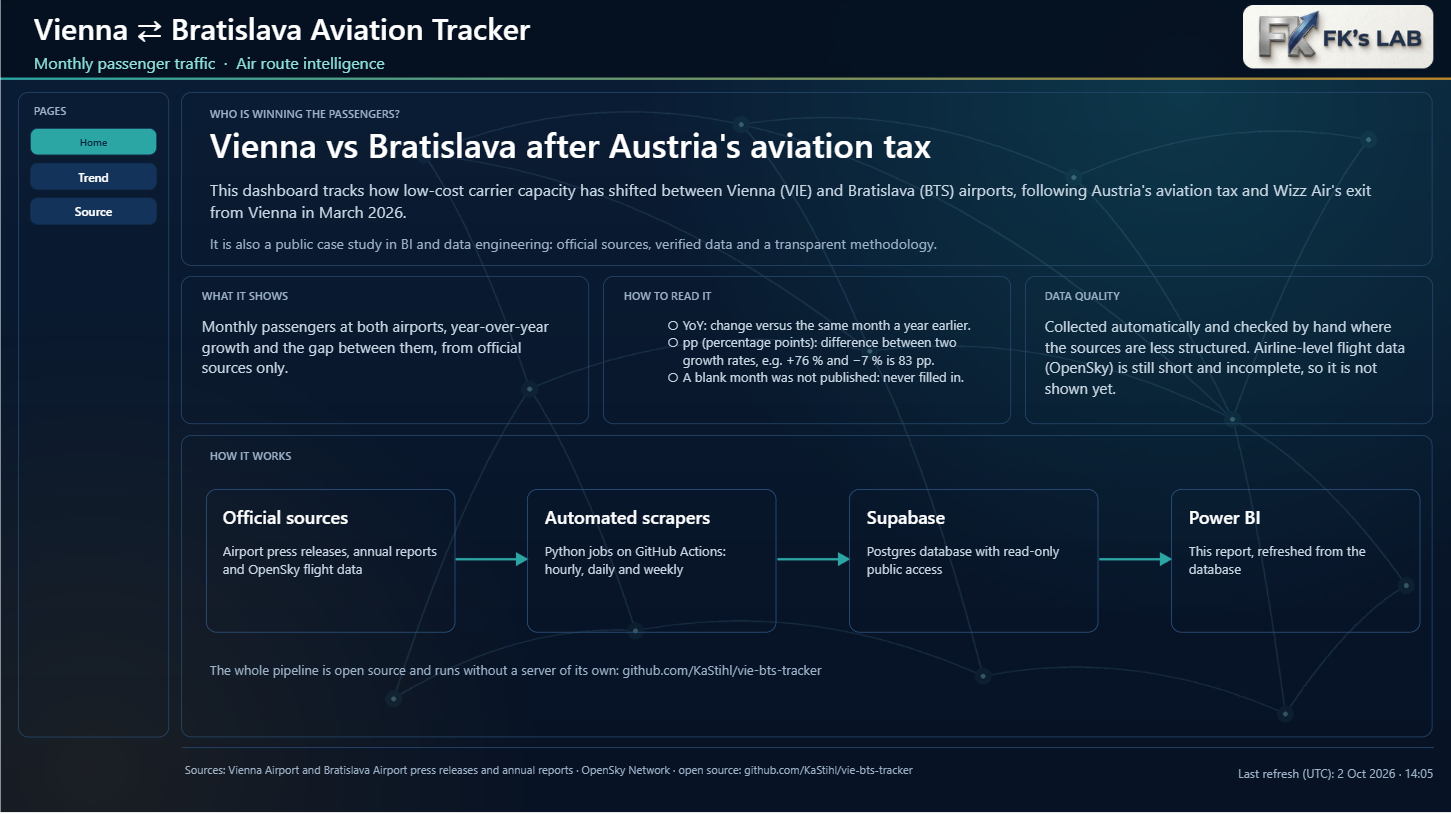
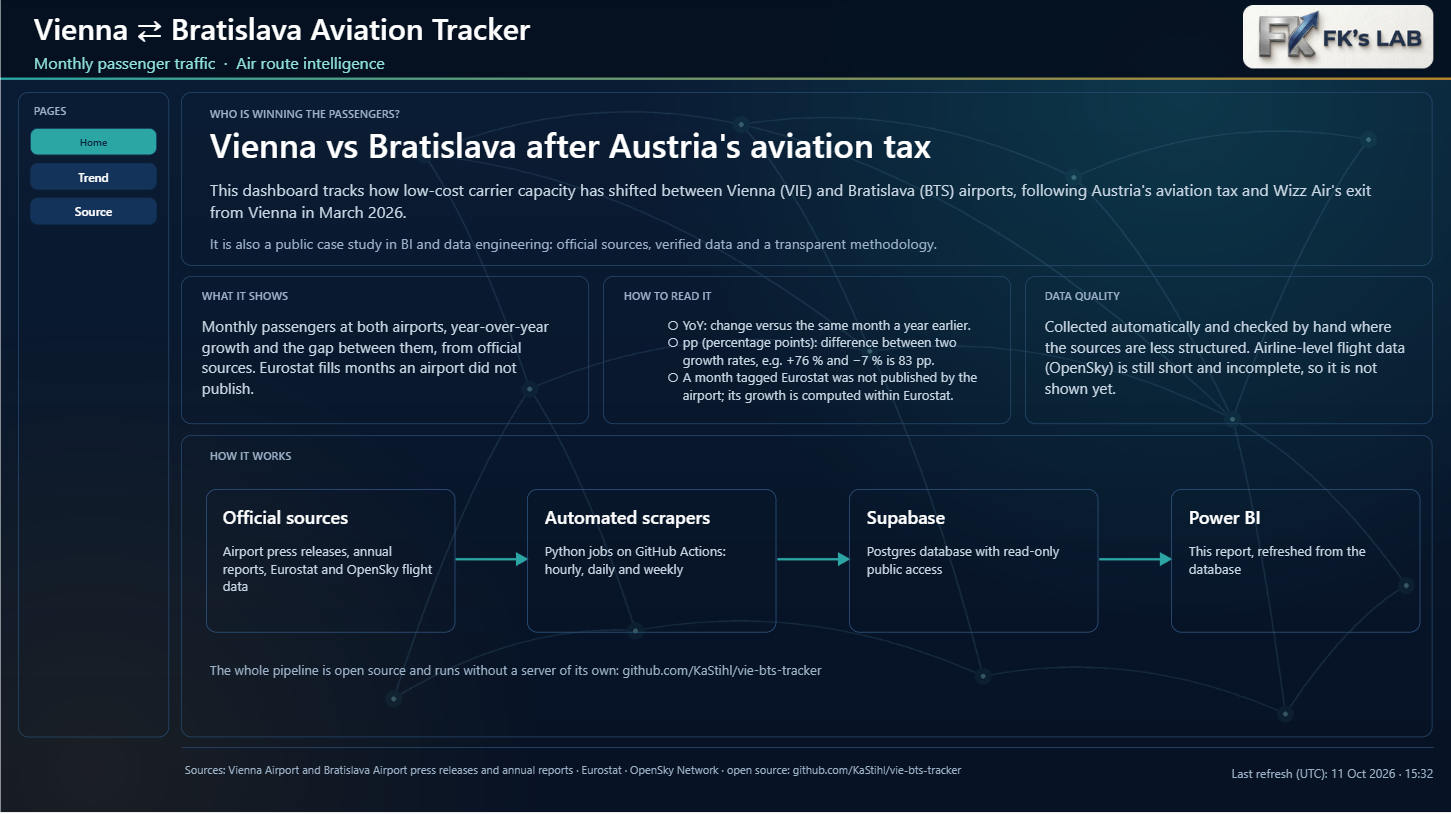
pbi: chart subtitle mentions Eurostat months; refreshed screenshots

diff --git a/PBI/tools/build_report.py b/PBI/tools/build_report.py
@@ -297,7 +297,7 @@ def total_chart(x, y, w, h, z):
                       {"properties": {"fill": color(VIE)}, "selector": series_selector("VIE")}]
     o["legend"] = legend()
     o.pop("seriesLabels", None)
-    cont = container("Passengers per month", "Markers are the months an airport actually published  ·  linear scale", pad=16, title_size=16,
+    cont = container("Passengers per month", "Each marker is a month with data (airport release, else Eurostat)  ·  linear scale", pad=16, title_size=16,
                      alt="Line chart: monthly passengers at Vienna (about 2 to 3 million) and Bratislava (0.1 to 0.6 million) since January 2024.")
     return place("chart-total", d, x, y, w, h, z, cont)
 
